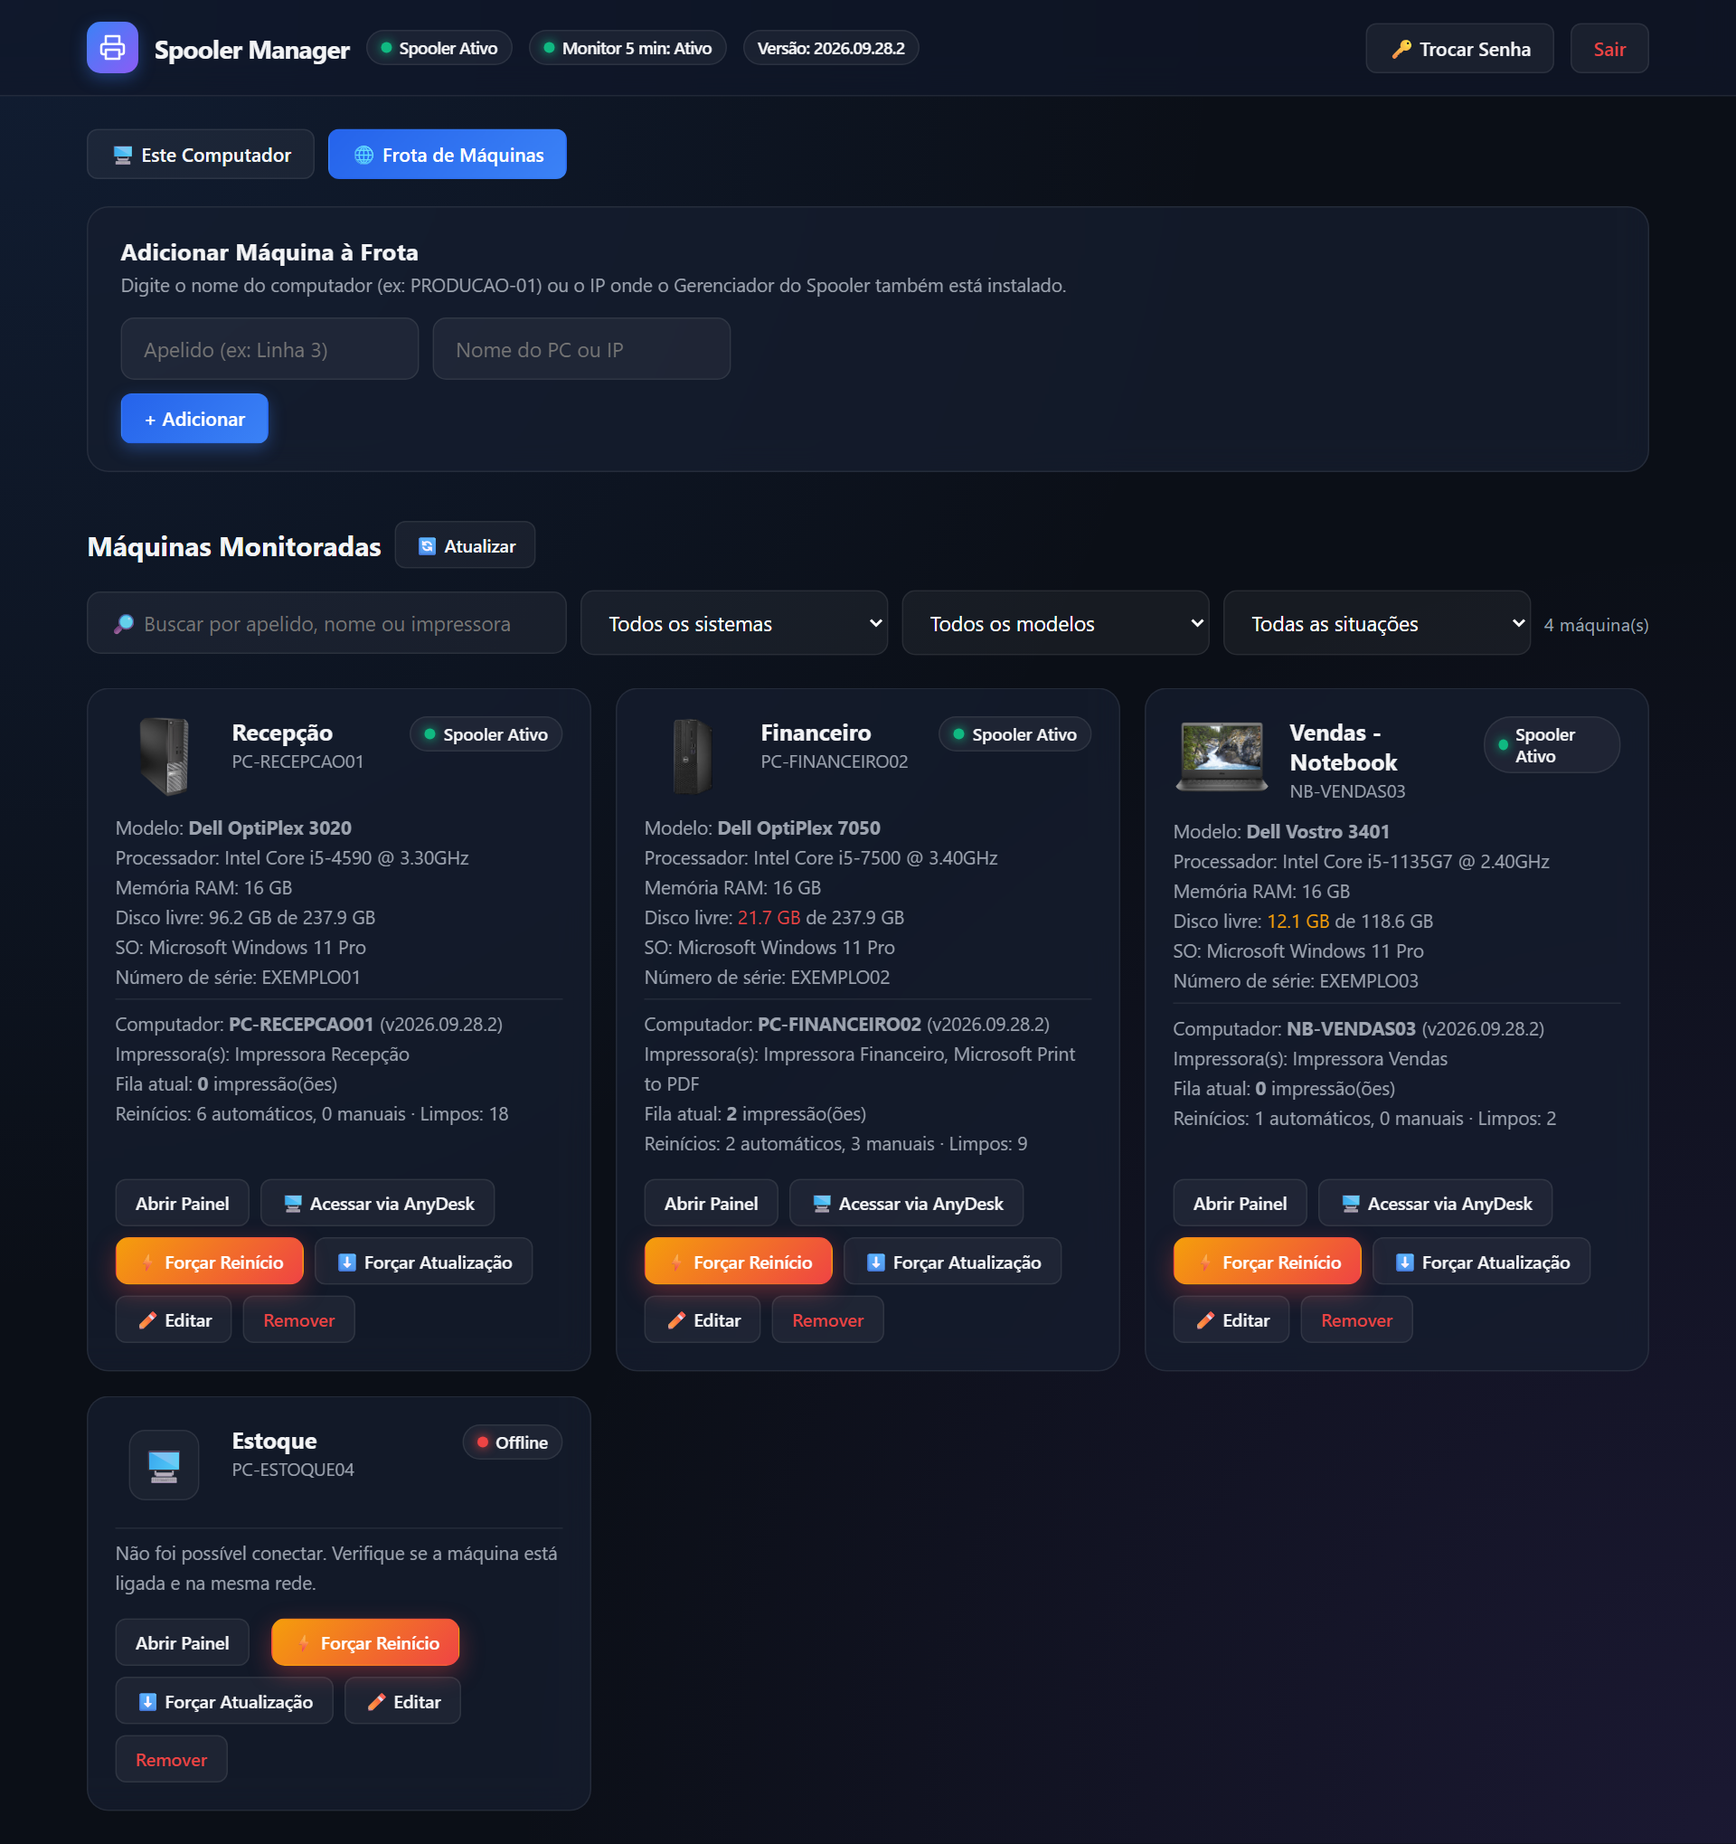
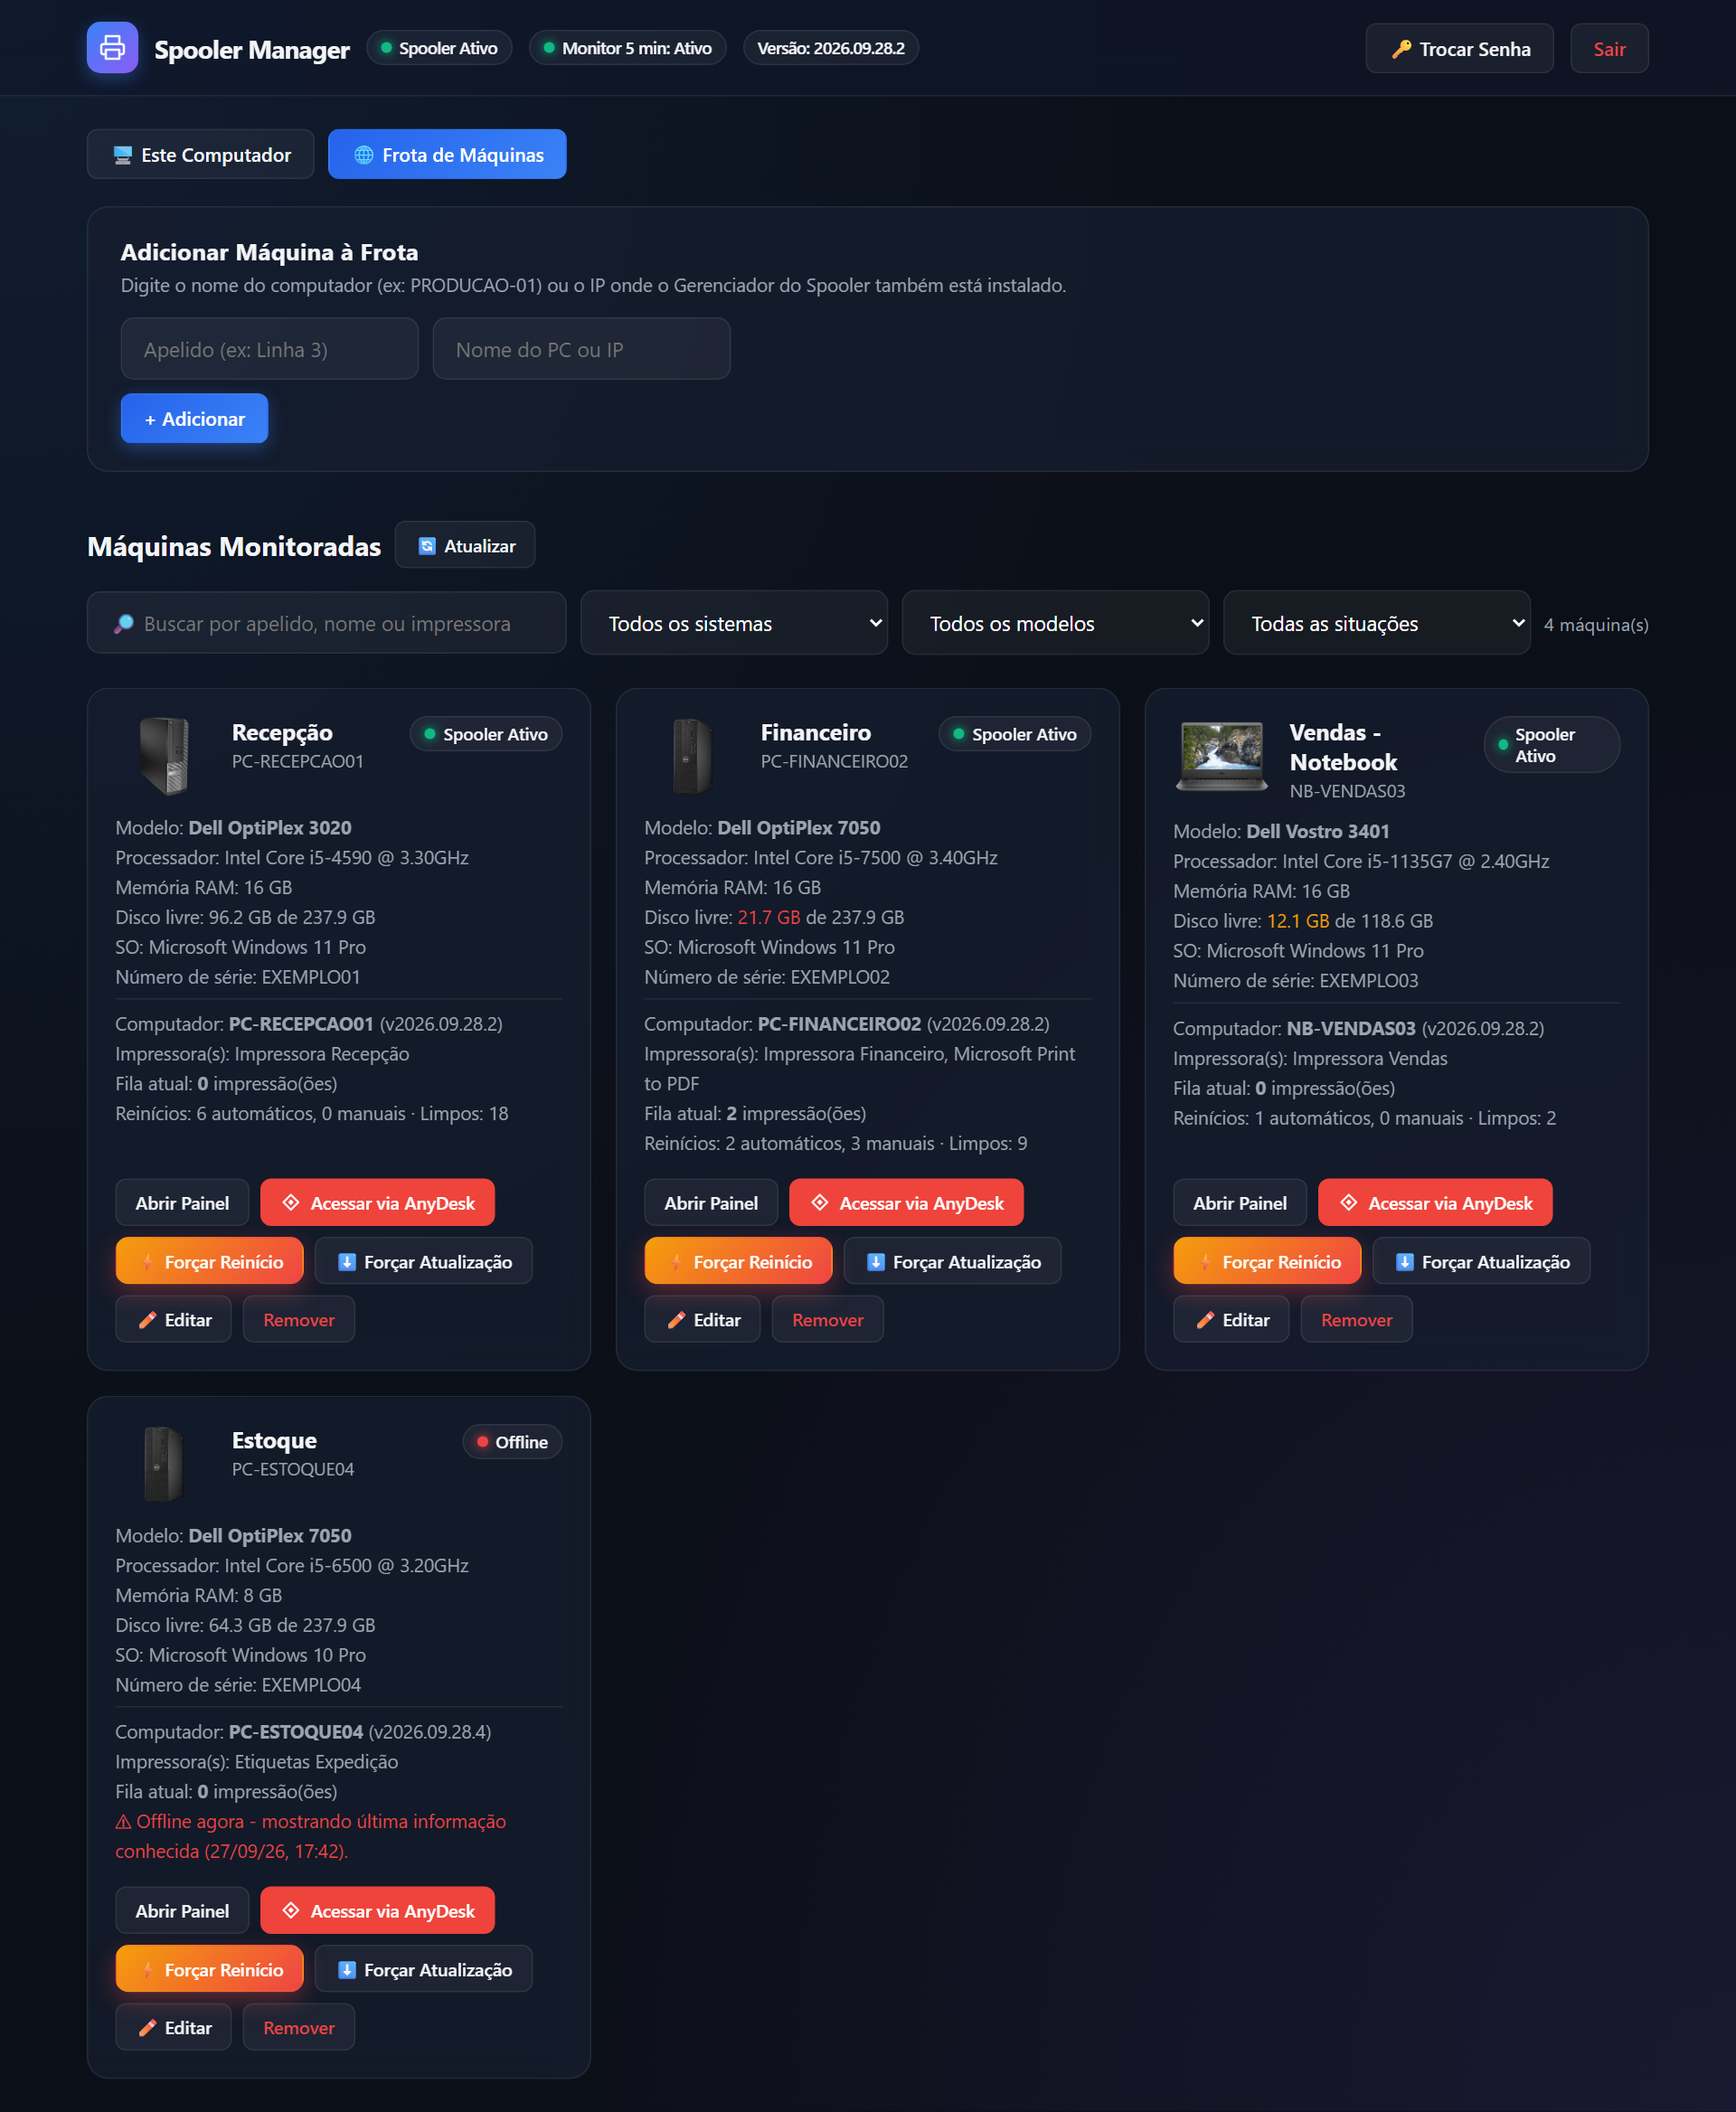
AnyDesk disponivel com maquina offline; install.ps1 gerado pelo deploy (v2026.09.30.1)
- Frota: botao do AnyDesk sai da ultima leitura guardada (o ID nao muda) e
  aparece mesmo com a maquina offline no Spooler Manager (ex: monitor fora
  ou Wi-Fi ruim, mas o AnyDesk ainda alcanca). Botao nas cores do AnyDesk,
  com icone.
- Nome do modelo no card sem "Inc." (igual ao filtro).
- deploy/install.ps1: modelo do instalador de um comando; o deploy troca
  __UPDATE_BASE_URL__ pelo secret e publica na VPS (antes o arquivo era
  mantido a mao la). Sem Start-Process -Wait e sem barra de progresso.
- Testes: AnyDesk offline (navegador), modelo e publicacao do install.ps1.

diff --git a/dist_spooler/app/dashboard.html b/dist_spooler/app/dashboard.html
@@ -147,6 +147,18 @@
       transform: translateY(-1px);
     }
 
+    /* Botao do AnyDesk nas cores da marca */
+    .btn-anydesk {
+      background: #ef443b;
+      color: #fff;
+      border: 1px solid #ef443b;
+      display: inline-flex;
+      align-items: center;
+      gap: 7px;
+    }
+    .btn-anydesk:hover { background: #d8352c; border-color: #d8352c; }
+    .anydesk-icon { width: 15px; height: 15px; flex: 0 0 auto; }
+
     .btn-action-force {
       background: linear-gradient(135deg, #f59e0b, #ef4444);
       color: #fff;
@@ -1609,6 +1621,7 @@
           </div>
         `;
         grid.appendChild(card);
+        renderAnyDeskButton(m.id); // da ultima leitura: aparece mesmo com a maquina offline
         loadMachineSpecsRemote(m.id, m.host);
       });
 
@@ -1642,7 +1655,7 @@
     function buildSpecsHtml(s, h) {
       let linhas = [];
       if (s) {
-        const modelo = [s.manufacturer, s.model].filter(Boolean).join(" ");
+        const modelo = nomeModelo(s); // sem "Inc." etc., igual ao filtro
         if (modelo) linhas.push(`Modelo: <strong>${modelo}</strong>`);
         if (s.cpu) linhas.push(`Processador: ${s.cpu}`);
         if (s.ram_gb) linhas.push(`Memória RAM: ${s.ram_gb} GB`);
@@ -1744,10 +1757,7 @@
         details.innerHTML = buildMachineDetailsHtml(health, { skipDisk: true });
         atualizarSpecsDoCard(m.id);
 
-        const anydeskSlot = document.getElementById(`anydesk-btn-${m.id}`);
-        if (anydeskSlot && health.anydesk_id) {
-          anydeskSlot.innerHTML = `<button class="btn btn-ghost btn-sm" onclick="connectAnyDesk('${health.anydesk_id}')">🖥 Acessar via AnyDesk</button>`;
-        }
+        renderAnyDeskButton(m.id);
       });
     }
 
@@ -1757,6 +1767,21 @@
       if (!pass) return null;
       fleetPassHash = await sha256(pass);
       return fleetPassHash;
+    }
+
+    // Botao do AnyDesk a partir da ultima leitura guardada (o ID nao muda):
+    // continua disponivel com a maquina offline no Spooler Manager - ex: o
+    // monitor caiu ou o Wi-Fi esta ruim, mas o AnyDesk ainda alcanca a maquina.
+    function renderAnyDeskButton(id) {
+      const slot = document.getElementById(`anydesk-btn-${id}`);
+      const h = lastHealthCache[id];
+      if (!slot || !h || !h.anydesk_id) return;
+      const anydeskId = String(h.anydesk_id).replace(/[^0-9a-zA-Z@._-]/g, "");
+      if (slot.dataset.anydeskId === anydeskId) return;
+      slot.dataset.anydeskId = anydeskId;
+      slot.innerHTML = `<button class="btn btn-sm btn-anydesk" title="AnyDesk ${anydeskId}" onclick="connectAnyDesk('${anydeskId}')">` +
+        `<svg class="anydesk-icon" viewBox="0 0 24 24" aria-hidden="true"><path d="M12 3.2 20.8 12 12 20.8 3.2 12Z" fill="none" stroke="currentColor" stroke-width="2.4" stroke-linejoin="round"/><path d="M12 8.6 15.4 12 12 15.4 8.6 12Z" fill="currentColor"/></svg>` +
+        `Acessar via AnyDesk</button>`;
     }
 
     function connectAnyDesk(anydeskId) {

diff --git a/tools/tests/test_dashboard_frota.py b/tools/tests/test_dashboard_frota.py
@@ -74,7 +74,8 @@ def test_filtros_da_frota(pagina):
 
     pagina.select_option("#filtro-situacao", "")
     pagina.select_option("#filtro-modelo", "Dell OptiPlex 7050")
-    assert visiveis(pagina) == ["machine-a2"]
+    # A2 online + A4 offline (modelo vem da ultima leitura guardada no monitor).
+    assert visiveis(pagina) == ["machine-a2", "machine-a4"]
 
     pagina.select_option("#filtro-modelo", "")
     pagina.fill("#filtro-busca", "vendas")
@@ -156,3 +157,18 @@ def test_tela_inicial_e_este_computador_mesmo_layout(logado, prefixo):
         assert "Impressora(s)" in baixo
         assert erros == []
         browser.close()
+
+
+def test_anydesk_disponivel_com_maquina_offline(pagina):
+    # "Estoque" (PC-ESTOQUE04) esta offline; a ultima leitura guardada no monitor tem o ID.
+    painel.MAQUINAS[3]["last_health"] = {"hostname": "PC-ESTOQUE04", "anydesk_id": "987654321",
+                                         "printers": [], "version": painel.VERSAO}
+    painel.MAQUINAS[3]["last_seen"] = "2026-09-20T10:00:00"
+    abrir_frota(pagina)
+    botao = pagina.locator("#anydesk-btn-a4 button")
+    assert botao.is_visible()
+    assert "Acessar via AnyDesk" in botao.inner_text()
+    assert "987654321" in botao.get_attribute("onclick")
+    assert pagina.locator("#anydesk-btn-a4 svg.anydesk-icon").count() == 1
+    # Maquinas online tambem tem o botao (ID vindo do /api/health).
+    assert pagina.locator("#anydesk-btn-a1 button").is_visible()

diff --git a/tools/tests/test_api.py b/tools/tests/test_api.py
@@ -284,3 +284,26 @@ def test_settings_devolve_configuracao_valida():
                          json={"stuck_threshold_minutes": 999})
     assert ruim.status_code == 400
     assert requests.get(f"{LOCAL_BASE_URL}/api/settings", timeout=TIMEOUT, headers=auth).json() == cfg
+
+
+# --------------------------------------------------------------------------
+# Instalador de um comando (install.ps1): gerado pelo deploy a partir do modelo
+# --------------------------------------------------------------------------
+
+def test_modelo_do_install_ps1():
+    modelo = (REPO_ROOT / "deploy" / "install.ps1").read_text(encoding="utf-8")
+    assert "__UPDATE_BASE_URL__" in modelo  # o deploy troca pelo endereco real
+    codigo = "\n".join(l for l in modelo.splitlines() if not l.strip().startswith("#"))
+    assert not re.search(r"Start-Process[^\n]*-Wait\b", codigo)  # travava no explorer.exe
+    assert "WaitForExit(" in codigo
+    assert '$ProgressPreference = "SilentlyContinue"' in codigo
+
+
+@pytest.mark.vps
+@requires_vps_url
+def test_install_ps1_publicado():
+    resp = requests.get(f"{VPS_BASE_URL}/install.ps1", timeout=TIMEOUT)
+    assert resp.status_code == 200
+    texto = resp.content.decode("utf-8-sig")
+    assert "__UPDATE_BASE_URL__" not in texto
+    assert VPS_BASE_URL in texto

diff --git a/tools/gerar_prints_readme.py b/tools/gerar_prints_readme.py
@@ -35,7 +35,14 @@ MAQUINAS = [
     {"id": "a1", "name": "Recepção", "host": "PC-RECEPCAO01"},
     {"id": "a2", "name": "Financeiro", "host": "PC-FINANCEIRO02"},
     {"id": "a3", "name": "Vendas - Notebook", "host": "NB-VENDAS03"},
-    {"id": "a4", "name": "Estoque", "host": "PC-ESTOQUE04"},
+    # Offline, mas com a ultima leitura guardada no monitor (mostra specs e o botao do AnyDesk).
+    {"id": "a4", "name": "Estoque", "host": "PC-ESTOQUE04",
+     "last_specs": {"manufacturer": "Dell Inc.", "model": "OptiPlex 7050", "cpu": "Intel Core i5-6500 @ 3.20GHz",
+                    "ram_gb": 8, "serial": "EXEMPLO04", "os_caption": "Microsoft Windows 10 Pro"},
+     "last_health": {"hostname": "PC-ESTOQUE04", "anydesk_id": "123456789", "printers": ["Etiquetas Expedição"],
+                     "current_queue": 0, "version": "2026.09.28.4", "disk_free_gb": 64.3, "disk_total_gb": 237.9,
+                     "_checadoEm": "27/09/26, 17:42"},
+     "last_seen": "2026-09-27T17:42:00"},
 ]
 
 # Estado da API simulada, que os testes de navegador (tools/tests/test_dashboard_*.py)

diff --git a/tools/tests/test_dashboard_offline.py b/tools/tests/test_dashboard_offline.py
@@ -21,6 +21,16 @@ SPECS_GUARDADAS = {"a4": {"manufacturer": "Dell Inc.", "model": "OptiPlex 3020",
 
 
 def test_maquina_offline_mantem_specs_e_foto_do_modelo():
+    # So o cache do navegador neste teste: tira a leitura guardada no monitor simulado.
+    maquina = painel.MAQUINAS[3]
+    guardado = {k: maquina.pop(k) for k in ("last_specs", "last_health", "last_seen") if k in maquina}
+    try:
+        _verificar_offline()
+    finally:
+        maquina.update(guardado)
+
+
+def _verificar_offline():
     with playwright.sync_playwright() as p:
         try:
             browser = p.chromium.launch()

diff --git a/README.md b/README.md
@@ -92,6 +92,16 @@ Tudo roda em **PowerShell puro**, sem nada para instalar além do próprio pacot
 3. Abra o atalho **Painel Admin - Spooler** na Área de Trabalho. O login inicial é
    `admin` / `admin`.
 
+Com um servidor de atualização configurado (veja abaixo), dá para instalar com **um
+comando só**, num PowerShell comum. Ele pede o UAC sozinho:
+
+```powershell
+irm http://seu-servidor:8990/install.ps1 | iex
+```
+
+O `install.ps1` é gerado pelo deploy a partir de [`deploy/install.ps1`](deploy/install.ps1),
+já com o endereço do servidor.
+
 > ⚠ **Troque a senha padrão** pelo botão **Trocar Senha** do painel. Todas as
 > máquinas de uma mesma Frota precisam usar a mesma senha.
 
